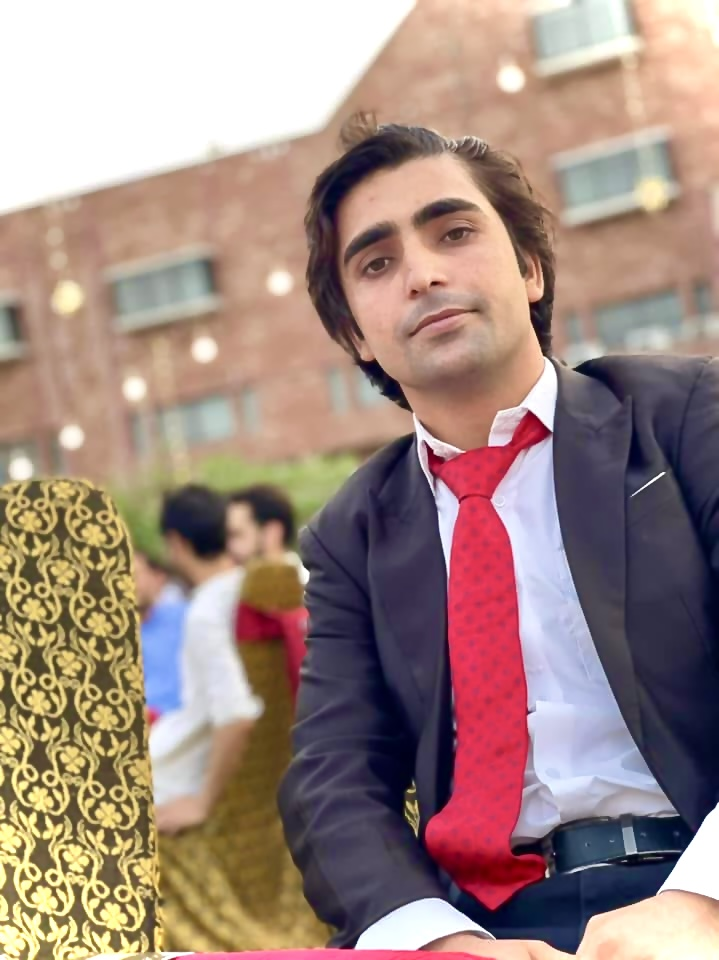
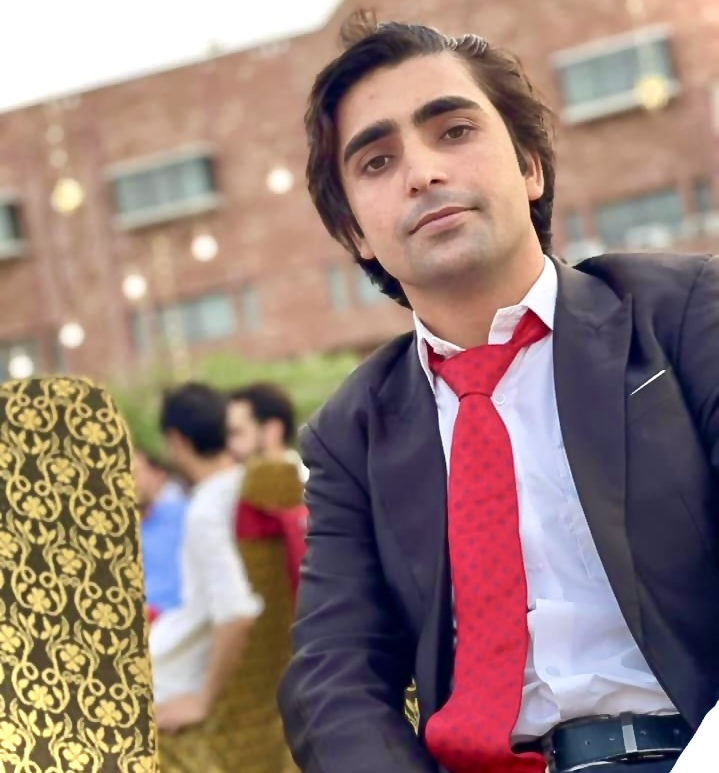
worked on responsiveness

diff --git a/src/components/customHero.css b/src/components/customHero.css
@@ -5,7 +5,7 @@ img {
 }
 
 .hero-section {
-    margin-top: 70px;
+    /* margin-top: 70px; */
     height: 100vh;
         background:
             linear-gradient(135deg, rgba(0, 0, 0, 0.7) 0%, rgba(0, 0, 0, 0.4) 50%, rgba(0, 0, 0, 0.8) 100%),
@@ -91,7 +91,7 @@ img {
     text-align: center;
     display: block;
     position: absolute;
-    width: 40%;
+    width: 300px;
     text-decoration: none;
     margin: 2rem auto;
     background-color: transparent;
@@ -101,7 +101,7 @@ img {
     text-transform: uppercase;
     font-size: 1.2rem;
     border-radius: 30px;
-    padding: 0.5rem 1rem;   
+    padding: 0.7rem 1rem;   
     cursor: pointer;
     z-index: 9999;
 
@@ -119,14 +119,14 @@ img {
 }
 
 .pic {
-    /* object-fit: contain; */
+    object-fit: contain;
     grid-column-start: 1;
     grid-column-end: 2;
     grid-row-start: 2;
     grid-row-end: 2;
 }
 
-@media (min-width: 600px) {
+@media (min-width: 769px) {
     .hero-section {
         grid-template-columns: 1fr 1fr;
     }
@@ -145,5 +145,55 @@ img {
 
     .btn-link {
         margin: 2rem 0 0;
+    }
+}
+
+@media (max-width: 768px) {
+    .hero-section {
+        grid-template-columns: 1fr 1fr;
+        margin-top: -40px !important;
+    }
+
+   .pic-holder {
+       height: 400px !important;
+       margin-top: 45px !important;
+   }
+
+    .page-title {
+        text-align: center;
+        font-size: 40px !important;
+    }
+
+    .page-paragraph {
+        text-align: center !important;
+    }
+
+    .btn-link {
+        margin: 0 auto !important;
+    }
+}
+
+@media (max-width: 599px) {
+    .hero-section {
+        grid-template-columns: 1fr;
+        margin-top: 80px !important;
+        height: auto !important;
+    }
+
+    .pic-holder {
+        height: auto !important;
+    }
+
+    .page-title {
+        text-align: center;
+        font-size: 40px !important;
+    }
+
+    .page-paragraph {
+        text-align: center !important;
+    }
+
+    .btn-link {
+        margin: 0 auto !important;
     }
 }

diff --git a/src/index.css b/src/index.css
@@ -120,8 +120,10 @@ h2 {
 /* Colorful Gradient Text for Section Headings */
 .about-section h2,
 .skills-section h2,
+.experience-section .text-reveal,
 .projects-section h2,
 .contact-section h2,
+
 .section-title {
   background: linear-gradient(135deg, 
     #ffffff 0%, 
@@ -211,7 +213,7 @@ p {
   transition: all 0.8s cubic-bezier(0.25, 0.46, 0.45, 0.94);
 }
 
-.text-reveal.visible {
+.text-reveal {
   opacity: 1;
   transform: translateY(0);
 }
@@ -1510,6 +1512,15 @@ p {
 
 /* Responsive Design for 3D Profile */
 @media (max-width: 968px) {
+  .mobile-menu-btn {
+      display: block !important;
+     
+    }
+  .mobile-menu a {
+      font-size: 1rem;
+      font-weight: 900;
+      background-color: black;
+    }
   .about-content-grid {
     grid-template-columns: 1fr;
     gap: 60px;
@@ -2438,7 +2449,7 @@ margin-top: 3rem;
   
   .mobile-menu-btn {
     display: block;
-    color: white;
+    color: white !important;
   }
   
   .nav-content {
@@ -2571,3 +2582,4 @@ margin-top: 3rem;
   0%, 100% { background-position: 0% 50%; }
   50% { background-position: 100% 50%; }
 }
+

diff --git a/src/components/Experience.jsx b/src/components/Experience.jsx
@@ -32,12 +32,12 @@ export default function Experience() {
         <motion.div
           initial="hidden"
           whileInView="visible"
-          viewport={{ once: true }}
+          viewport={{ once: true, amount: 0.3 }}
           variants={timelineVariants}
         >
           <div className="text-center mb-8">
             <h2 className="text-reveal">Work Experience</h2>
-            <p className="text-reveal">My Professional Journey</p>
+            <h3 className="">My Professional Journey</h3>
           </div>
 
           <div className="timeline">

diff --git a/src/components/customHero.jsx b/src/components/customHero.jsx
@@ -46,13 +46,13 @@ const CustomHero = () => {
       <figure className="pic-holder">
         <motion.img
           src={profileImage2}
-          className="pic pic1"
+          className="pic"
           alt="skills"
         />
         <motion.img
           src={profileImage}
 
-          className="pic pic2"
+          className="pic"
           alt="skills"
           animate={{ x: -500 }}
           transition={{ duration: 1, delay: 1.8, type: "tween" }}
